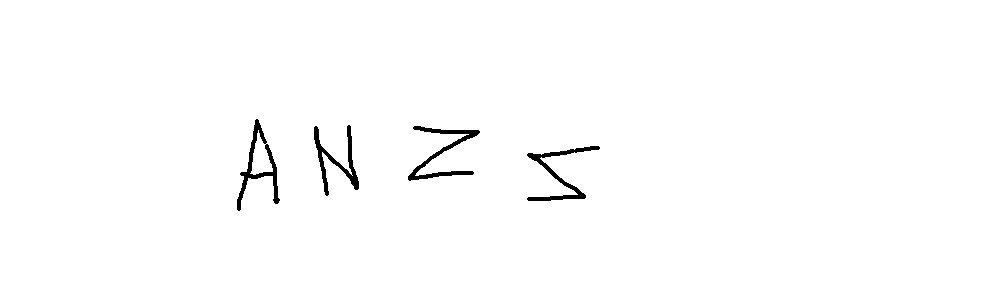
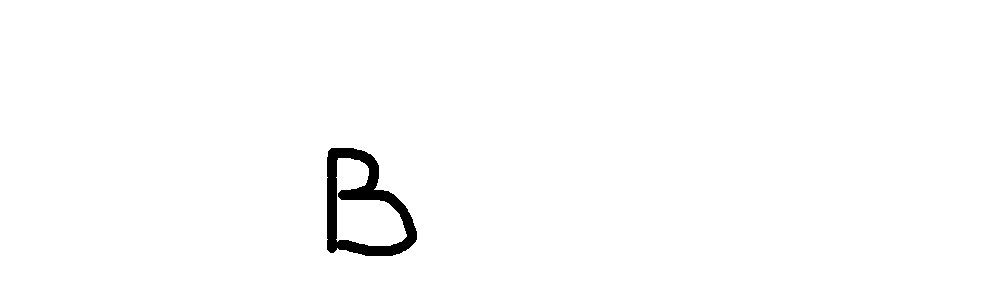
Capa convolucional finalizada

diff --git a/pygames_modules/window.py b/pygames_modules/window.py
@@ -12,7 +12,7 @@ class window:
         self.screen = pygame.display.set_mode([self.WIDTH,self.HEIGHT])
         self.font = pygame.font.Font('font/Ubuntu-Regular.ttf',24)
         self.active_color = (0,0,0)
-        self.size_brush = 2.5
+        self.size_brush = 5
         self.painting = []
         self.draw = False
 
